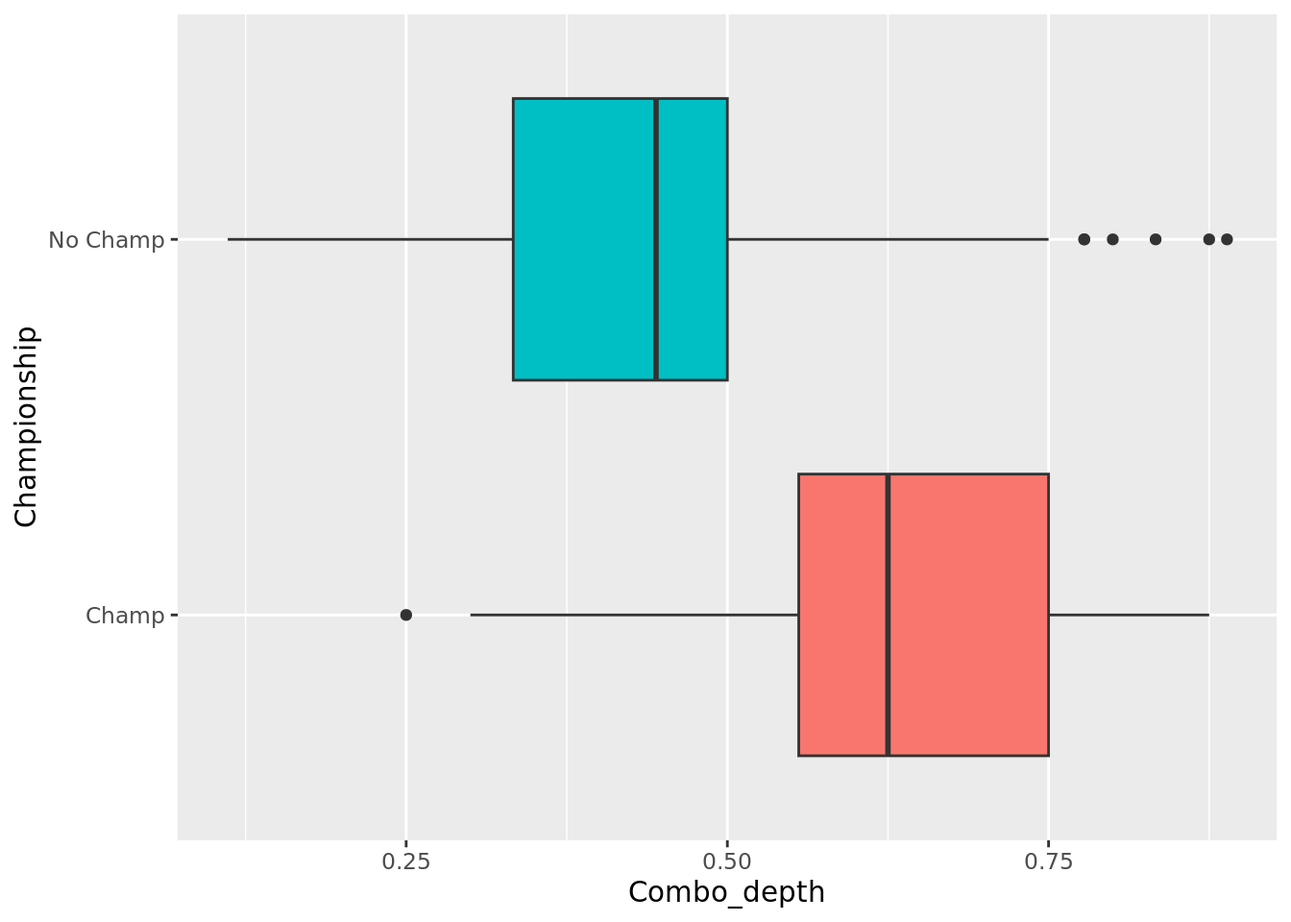
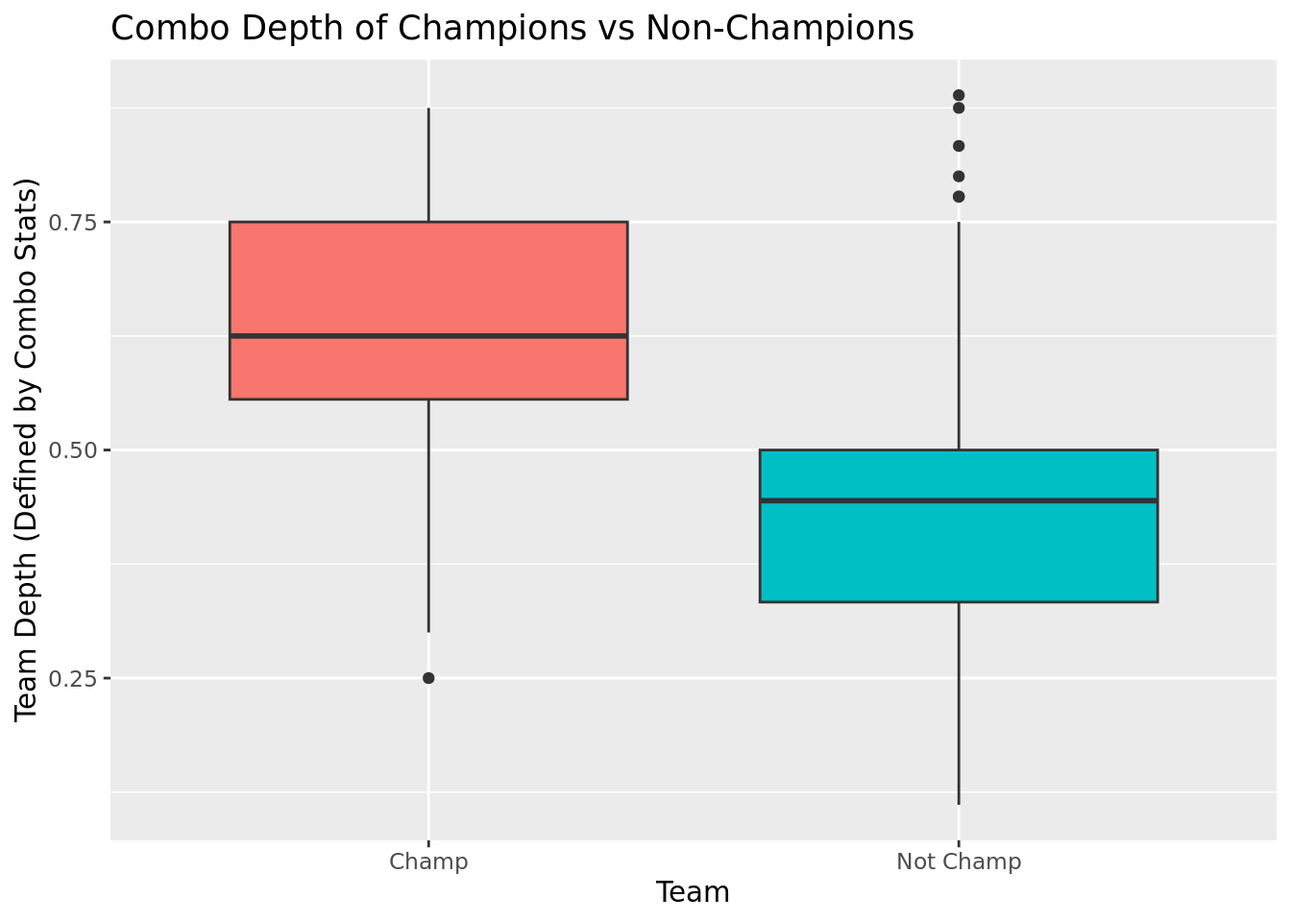
Added Part 2 and 3

diff --git a/docs/report.html b/docs/report.html
@@ -422,7 +422,7 @@ $ ws_per_48        &lt;dbl&gt; 0.228, -0.104, 0.094, 0.049, 0.049, 0.063, 0.182,
 <pre><code># A tibble: 1 × 1
   p_value
     &lt;dbl&gt;
-1   0.064</code></pre>
+1    0.06</code></pre>
 </div>
 </div>
 <p>Part 2: Advanced Stats</p>
@@ -438,73 +438,181 @@ $ ws_per_48        &lt;dbl&gt; 0.228, -0.104, 0.094, 0.049, 0.049, 0.063, 0.182,
 <div class="cell">
 <div class="sourceCode cell-code" id="cb26"><pre class="sourceCode r code-with-copy"><code class="sourceCode r"><span id="cb26-1"><a href="#cb26-1" aria-hidden="true" tabindex="-1"></a>Adv_df <span class="ot">&lt;-</span> Adv_df <span class="sc">|&gt;</span></span>
 <span id="cb26-2"><a href="#cb26-2" aria-hidden="true" tabindex="-1"></a>  <span class="fu">mutate</span>(<span class="at">Adv_depth =</span> count_qual <span class="sc">/</span> count_rot,</span>
-<span id="cb26-3"><a href="#cb26-3" aria-hidden="true" tabindex="-1"></a>         <span class="at">Championship =</span> <span class="fu">if_else</span>(team_id <span class="sc">%in%</span> <span class="fu">c</span>(<span class="st">"1990DET"</span>, <span class="st">"1991CHI"</span>, <span class="st">"1992CHI"</span>, <span class="st">"1993CHI"</span>, <span class="st">"1994HOU"</span>, <span class="st">"1995HOU"</span>, <span class="st">"1996CHI"</span>, <span class="st">"1997CHI"</span>, <span class="st">"1998CHI"</span>, <span class="st">"1999SAS"</span>, <span class="st">"2000LAL"</span>, <span class="st">"2001LAL"</span>, <span class="st">"2002LAL"</span>, <span class="st">"2003SAS"</span>, <span class="st">"2004DET"</span>, <span class="st">"2005SAS"</span>, <span class="st">"2006MIA"</span>, <span class="st">"2007SAS"</span>, <span class="st">"2008BOS"</span>, <span class="st">"2009LAL"</span>, <span class="st">"2010LAL"</span>, <span class="st">"2011DAL"</span>, <span class="st">"2012MIA"</span>, <span class="st">"2013MIA"</span>, <span class="st">"2014SAS"</span>, <span class="st">"2015GSW"</span>, <span class="st">"2016CLE"</span>, <span class="st">"2017GSW"</span>, <span class="st">"2018GSW"</span>, <span class="st">"2019TOR"</span>, <span class="st">"2020LAL"</span>, <span class="st">"2021MIL"</span>, <span class="st">"2022GSW"</span>), <span class="st">"Champ"</span>, <span class="st">"No Champ"</span> ))</span></code><button title="Copy to Clipboard" class="code-copy-button"><i class="bi"></i></button></pre></div>
+<span id="cb26-3"><a href="#cb26-3" aria-hidden="true" tabindex="-1"></a>         <span class="at">Championship =</span> <span class="fu">if_else</span>(team_id <span class="sc">%in%</span> <span class="fu">c</span>(<span class="st">"1990DET"</span>, <span class="st">"1991CHI"</span>, <span class="st">"1992CHI"</span>, <span class="st">"1993CHI"</span>, <span class="st">"1994HOU"</span>, <span class="st">"1995HOU"</span>, <span class="st">"1996CHI"</span>, <span class="st">"1997CHI"</span>, <span class="st">"1998CHI"</span>, <span class="st">"1999SAS"</span>, <span class="st">"2000LAL"</span>, <span class="st">"2001LAL"</span>, <span class="st">"2002LAL"</span>, <span class="st">"2003SAS"</span>, <span class="st">"2004DET"</span>, <span class="st">"2005SAS"</span>, <span class="st">"2006MIA"</span>, <span class="st">"2007SAS"</span>, <span class="st">"2008BOS"</span>, <span class="st">"2009LAL"</span>, <span class="st">"2010LAL"</span>, <span class="st">"2011DAL"</span>, <span class="st">"2012MIA"</span>, <span class="st">"2013MIA"</span>, <span class="st">"2014SAS"</span>, <span class="st">"2015GSW"</span>, <span class="st">"2016CLE"</span>, <span class="st">"2017GSW"</span>, <span class="st">"2018GSW"</span>, <span class="st">"2019TOR"</span>, <span class="st">"2020LAL"</span>, <span class="st">"2021MIL"</span>, <span class="st">"2022GSW"</span>), <span class="st">"Champ"</span>, <span class="st">"Not Champ"</span> ))</span></code><button title="Copy to Clipboard" class="code-copy-button"><i class="bi"></i></button></pre></div>
 </div>
 <div class="cell">
 <div class="sourceCode cell-code" id="cb27"><pre class="sourceCode r code-with-copy"><code class="sourceCode r"><span id="cb27-1"><a href="#cb27-1" aria-hidden="true" tabindex="-1"></a>Adv_df <span class="sc">|&gt;</span></span>
-<span id="cb27-2"><a href="#cb27-2" aria-hidden="true" tabindex="-1"></a>  <span class="fu">group_by</span>(Championship) <span class="sc">|&gt;</span></span>
-<span id="cb27-3"><a href="#cb27-3" aria-hidden="true" tabindex="-1"></a>  <span class="fu">summarize</span>(<span class="fu">mean</span>(Adv_depth))</span></code><button title="Copy to Clipboard" class="code-copy-button"><i class="bi"></i></button></pre></div>
+<span id="cb27-2"><a href="#cb27-2" aria-hidden="true" tabindex="-1"></a>  <span class="fu">ggplot</span>(</span>
+<span id="cb27-3"><a href="#cb27-3" aria-hidden="true" tabindex="-1"></a>    <span class="fu">aes</span>(<span class="at">x =</span> Championship, <span class="at">y =</span> Adv_depth,  <span class="at">fill =</span> Championship)</span>
+<span id="cb27-4"><a href="#cb27-4" aria-hidden="true" tabindex="-1"></a>  ) <span class="sc">+</span></span>
+<span id="cb27-5"><a href="#cb27-5" aria-hidden="true" tabindex="-1"></a>  <span class="fu">geom_boxplot</span>() <span class="sc">+</span></span>
+<span id="cb27-6"><a href="#cb27-6" aria-hidden="true" tabindex="-1"></a>  <span class="fu">theme</span>(<span class="at">legend.position =</span> <span class="st">"none"</span>) <span class="sc">+</span></span>
+<span id="cb27-7"><a href="#cb27-7" aria-hidden="true" tabindex="-1"></a>  <span class="fu">labs</span>(<span class="at">title =</span> <span class="st">"Advanved Depth of Champions vs Non-Champions"</span>,</span>
+<span id="cb27-8"><a href="#cb27-8" aria-hidden="true" tabindex="-1"></a>       <span class="at">x =</span> <span class="st">"Team"</span>,</span>
+<span id="cb27-9"><a href="#cb27-9" aria-hidden="true" tabindex="-1"></a>       <span class="at">y =</span> <span class="st">"Team Depth (Defined by Adv Stats)"</span>)</span></code><button title="Copy to Clipboard" class="code-copy-button"><i class="bi"></i></button></pre></div>
+<div class="cell-output-display">
+<p><img src="report_files/figure-html/adv-barplot-depth-1.png" class="img-fluid" width="672"></p>
+</div>
+</div>
+<div class="cell">
+<div class="sourceCode cell-code" id="cb28"><pre class="sourceCode r code-with-copy"><code class="sourceCode r"><span id="cb28-1"><a href="#cb28-1" aria-hidden="true" tabindex="-1"></a>Adv_df <span class="sc">|&gt;</span></span>
+<span id="cb28-2"><a href="#cb28-2" aria-hidden="true" tabindex="-1"></a>  <span class="fu">ggplot</span>(</span>
+<span id="cb28-3"><a href="#cb28-3" aria-hidden="true" tabindex="-1"></a>    <span class="fu">aes</span>(<span class="at">x =</span> Championship, <span class="at">y =</span> Adv_depth,  <span class="at">fill =</span> Championship)</span>
+<span id="cb28-4"><a href="#cb28-4" aria-hidden="true" tabindex="-1"></a>  ) <span class="sc">+</span></span>
+<span id="cb28-5"><a href="#cb28-5" aria-hidden="true" tabindex="-1"></a>  <span class="fu">geom_violin</span>() <span class="sc">+</span></span>
+<span id="cb28-6"><a href="#cb28-6" aria-hidden="true" tabindex="-1"></a>  <span class="fu">theme</span>(<span class="at">legend.position =</span> <span class="st">"none"</span>) <span class="sc">+</span></span>
+<span id="cb28-7"><a href="#cb28-7" aria-hidden="true" tabindex="-1"></a>  <span class="fu">labs</span>(<span class="at">title =</span> <span class="st">"Advanved Depth of Champions vs Non-Champions"</span>,</span>
+<span id="cb28-8"><a href="#cb28-8" aria-hidden="true" tabindex="-1"></a>       <span class="at">x =</span> <span class="st">"Team"</span>,</span>
+<span id="cb28-9"><a href="#cb28-9" aria-hidden="true" tabindex="-1"></a>       <span class="at">y =</span> <span class="st">"Team Depth (Defined by Adv Stats)"</span>)</span></code><button title="Copy to Clipboard" class="code-copy-button"><i class="bi"></i></button></pre></div>
+<div class="cell-output-display">
+<p><img src="report_files/figure-html/adv-violinplot-depth-1.png" class="img-fluid" width="672"></p>
+</div>
+</div>
+<div class="cell">
+<div class="sourceCode cell-code" id="cb29"><pre class="sourceCode r code-with-copy"><code class="sourceCode r"><span id="cb29-1"><a href="#cb29-1" aria-hidden="true" tabindex="-1"></a>Adv_df <span class="sc">|&gt;</span></span>
+<span id="cb29-2"><a href="#cb29-2" aria-hidden="true" tabindex="-1"></a>  <span class="fu">group_by</span>(Championship) <span class="sc">|&gt;</span></span>
+<span id="cb29-3"><a href="#cb29-3" aria-hidden="true" tabindex="-1"></a>  <span class="fu">summarize</span>(<span class="fu">mean</span>(Adv_depth))</span></code><button title="Copy to Clipboard" class="code-copy-button"><i class="bi"></i></button></pre></div>
 <div class="cell-output cell-output-stdout">
 <pre><code># A tibble: 2 × 2
   Championship `mean(Adv_depth)`
   &lt;chr&gt;                    &lt;dbl&gt;
 1 Champ                    0.751
-2 No Champ                 0.506</code></pre>
+2 Not Champ                0.506</code></pre>
+</div>
+</div>
+<p><span class="math inline">\(\bar{x_c} - \bar{x_n}\)</span> = 0.25</p>
+<div class="cell">
+<div class="sourceCode cell-code" id="cb31"><pre class="sourceCode r code-with-copy"><code class="sourceCode r"><span id="cb31-1"><a href="#cb31-1" aria-hidden="true" tabindex="-1"></a>null_dist_adv <span class="ot">&lt;-</span> Adv_df <span class="sc">|&gt;</span></span>
+<span id="cb31-2"><a href="#cb31-2" aria-hidden="true" tabindex="-1"></a>  <span class="fu">specify</span>(<span class="at">response =</span> Adv_depth, <span class="at">explanatory =</span> Championship) <span class="sc">|&gt;</span></span>
+<span id="cb31-3"><a href="#cb31-3" aria-hidden="true" tabindex="-1"></a>  <span class="fu">hypothesize</span>(<span class="at">null =</span> <span class="st">"independence"</span>) <span class="sc">|&gt;</span></span>
+<span id="cb31-4"><a href="#cb31-4" aria-hidden="true" tabindex="-1"></a>  <span class="fu">generate</span>(<span class="at">reps =</span> <span class="dv">1000</span>, <span class="at">type =</span> <span class="st">"permute"</span>) <span class="sc">|&gt;</span></span>
+<span id="cb31-5"><a href="#cb31-5" aria-hidden="true" tabindex="-1"></a>  <span class="fu">calculate</span>(<span class="at">stat =</span> <span class="st">"diff in means"</span>, <span class="at">order =</span> <span class="fu">c</span>(<span class="st">"Champ"</span>, <span class="st">"Not Champ"</span>))</span></code><button title="Copy to Clipboard" class="code-copy-button"><i class="bi"></i></button></pre></div>
+</div>
+<div class="cell">
+<div class="sourceCode cell-code" id="cb32"><pre class="sourceCode r code-with-copy"><code class="sourceCode r"><span id="cb32-1"><a href="#cb32-1" aria-hidden="true" tabindex="-1"></a><span class="fu">visualize</span>(null_dist_adv) <span class="sc">+</span></span>
+<span id="cb32-2"><a href="#cb32-2" aria-hidden="true" tabindex="-1"></a> <span class="fu">shade_p_value</span>(<span class="at">obs_stat =</span> <span class="fl">0.25</span>, <span class="at">direction =</span> <span class="st">"greater"</span>) <span class="sc">+</span></span>
+<span id="cb32-3"><a href="#cb32-3" aria-hidden="true" tabindex="-1"></a>  <span class="fu">labs</span>(<span class="at">title =</span> <span class="st">"Advanced Distribution of (Champion Depth - Non-Champion Depth) </span></span>
+<span id="cb32-4"><a href="#cb32-4" aria-hidden="true" tabindex="-1"></a><span class="st">using Basic Statistics"</span>,</span>
+<span id="cb32-5"><a href="#cb32-5" aria-hidden="true" tabindex="-1"></a>      <span class="at">x =</span> <span class="st">"Difference (Champion Depth - Non-Champion Depth)"</span>,</span>
+<span id="cb32-6"><a href="#cb32-6" aria-hidden="true" tabindex="-1"></a>      <span class="at">y =</span> <span class="st">"Frequency"</span>)</span></code><button title="Copy to Clipboard" class="code-copy-button"><i class="bi"></i></button></pre></div>
+<div class="cell-output cell-output-stderr">
+<pre><code>Warning in min(diff(unique_loc)): no non-missing arguments to min; returning Inf</code></pre>
+</div>
+<div class="cell-output-display">
+<p><img src="report_files/figure-html/null-vis-adv-1.png" class="img-fluid" width="672"></p>
 </div>
 </div>
 <div class="cell">
-<div class="sourceCode cell-code" id="cb29"><pre class="sourceCode r code-with-copy"><code class="sourceCode r"><span id="cb29-1"><a href="#cb29-1" aria-hidden="true" tabindex="-1"></a>Adv_df <span class="sc">|&gt;</span></span>
-<span id="cb29-2"><a href="#cb29-2" aria-hidden="true" tabindex="-1"></a>  <span class="fu">ggplot</span>(</span>
-<span id="cb29-3"><a href="#cb29-3" aria-hidden="true" tabindex="-1"></a>    <span class="fu">aes</span>(<span class="at">x =</span> Championship, <span class="at">y =</span> Adv_depth,  <span class="at">fill =</span> Championship)</span>
-<span id="cb29-4"><a href="#cb29-4" aria-hidden="true" tabindex="-1"></a>  ) <span class="sc">+</span></span>
-<span id="cb29-5"><a href="#cb29-5" aria-hidden="true" tabindex="-1"></a>  <span class="fu">geom_boxplot</span>() <span class="sc">+</span></span>
-<span id="cb29-6"><a href="#cb29-6" aria-hidden="true" tabindex="-1"></a>  <span class="fu">theme</span>(<span class="at">legend.position =</span> <span class="st">"none"</span>)</span></code><button title="Copy to Clipboard" class="code-copy-button"><i class="bi"></i></button></pre></div>
-<div class="cell-output-display">
-<p><img src="report_files/figure-html/adv-barplot-depth-1.png" class="img-fluid" width="672"></p>
+<div class="sourceCode cell-code" id="cb34"><pre class="sourceCode r code-with-copy"><code class="sourceCode r"><span id="cb34-1"><a href="#cb34-1" aria-hidden="true" tabindex="-1"></a>null_dist_adv <span class="sc">|&gt;</span></span>
+<span id="cb34-2"><a href="#cb34-2" aria-hidden="true" tabindex="-1"></a>  <span class="fu">get_p_value</span>(<span class="at">obs_stat =</span> <span class="fl">0.25</span>, <span class="at">direction =</span> <span class="st">"right"</span>)</span></code><button title="Copy to Clipboard" class="code-copy-button"><i class="bi"></i></button></pre></div>
+<div class="cell-output cell-output-stderr">
+<pre><code>Warning: Please be cautious in reporting a p-value of 0. This result is an
+approximation based on the number of `reps` chosen in the `generate()` step. See
+`?get_p_value()` for more information.</code></pre>
+</div>
+<div class="cell-output cell-output-stdout">
+<pre><code># A tibble: 1 × 1
+  p_value
+    &lt;dbl&gt;
+1       0</code></pre>
 </div>
 </div>
 <p>Part 3: Combo</p>
 <div class="cell">
-<div class="sourceCode cell-code" id="cb30"><pre class="sourceCode r code-with-copy"><code class="sourceCode r"><span id="cb30-1"><a href="#cb30-1" aria-hidden="true" tabindex="-1"></a>NBA_df_combo <span class="ot">&lt;-</span> NBA_df <span class="sc">|&gt;</span></span>
-<span id="cb30-2"><a href="#cb30-2" aria-hidden="true" tabindex="-1"></a>  <span class="fu">mutate</span>(<span class="at">pp_36 =</span> pts_per_g <span class="sc">/</span> mp_per_g <span class="sc">*</span> <span class="dv">36</span>,</span>
-<span id="cb30-3"><a href="#cb30-3" aria-hidden="true" tabindex="-1"></a>         <span class="at">rp_36 =</span> trb_per_g <span class="sc">/</span> mp_per_g <span class="sc">*</span> <span class="dv">36</span>,</span>
-<span id="cb30-4"><a href="#cb30-4" aria-hidden="true" tabindex="-1"></a>         <span class="at">ap_36 =</span> ast_per_g <span class="sc">/</span> mp_per_g <span class="sc">*</span> <span class="dv">36</span>)</span>
-<span id="cb30-5"><a href="#cb30-5" aria-hidden="true" tabindex="-1"></a></span>
-<span id="cb30-6"><a href="#cb30-6" aria-hidden="true" tabindex="-1"></a>Qual_player_df_combo <span class="ot">&lt;-</span> NBA_df_combo <span class="sc">|&gt;</span></span>
-<span id="cb30-7"><a href="#cb30-7" aria-hidden="true" tabindex="-1"></a>  <span class="fu">filter</span>(pp_36 <span class="sc">&gt;</span> <span class="dv">16</span> <span class="sc">|</span> rp_36 <span class="sc">&gt;</span> <span class="fl">6.5</span> <span class="sc">|</span> ap_36 <span class="sc">&gt;</span> <span class="fl">3.5</span>, </span>
-<span id="cb30-8"><a href="#cb30-8" aria-hidden="true" tabindex="-1"></a>         per <span class="sc">&gt;=</span> <span class="dv">15</span> <span class="sc">|</span> ws_per_48 <span class="sc">&gt;=</span> <span class="fl">0.1</span>) <span class="sc">|&gt;</span></span>
-<span id="cb30-9"><a href="#cb30-9" aria-hidden="true" tabindex="-1"></a>  <span class="fu">group_by</span>(team_id) <span class="sc">|&gt;</span></span>
-<span id="cb30-10"><a href="#cb30-10" aria-hidden="true" tabindex="-1"></a>  <span class="fu">summarise</span>(<span class="at">count_qual =</span> <span class="fu">n</span>())</span>
-<span id="cb30-11"><a href="#cb30-11" aria-hidden="true" tabindex="-1"></a></span>
-<span id="cb30-12"><a href="#cb30-12" aria-hidden="true" tabindex="-1"></a>Combo_df <span class="ot">&lt;-</span> Qual_player_df_combo <span class="sc">|&gt;</span></span>
-<span id="cb30-13"><a href="#cb30-13" aria-hidden="true" tabindex="-1"></a>  <span class="fu">left_join</span>(All_rot_players_df, <span class="at">by =</span> <span class="st">"team_id"</span>)</span></code><button title="Copy to Clipboard" class="code-copy-button"><i class="bi"></i></button></pre></div>
+<div class="sourceCode cell-code" id="cb37"><pre class="sourceCode r code-with-copy"><code class="sourceCode r"><span id="cb37-1"><a href="#cb37-1" aria-hidden="true" tabindex="-1"></a>NBA_df_combo <span class="ot">&lt;-</span> NBA_df <span class="sc">|&gt;</span></span>
+<span id="cb37-2"><a href="#cb37-2" aria-hidden="true" tabindex="-1"></a>  <span class="fu">mutate</span>(<span class="at">pp_36 =</span> pts_per_g <span class="sc">/</span> mp_per_g <span class="sc">*</span> <span class="dv">36</span>,</span>
+<span id="cb37-3"><a href="#cb37-3" aria-hidden="true" tabindex="-1"></a>         <span class="at">rp_36 =</span> trb_per_g <span class="sc">/</span> mp_per_g <span class="sc">*</span> <span class="dv">36</span>,</span>
+<span id="cb37-4"><a href="#cb37-4" aria-hidden="true" tabindex="-1"></a>         <span class="at">ap_36 =</span> ast_per_g <span class="sc">/</span> mp_per_g <span class="sc">*</span> <span class="dv">36</span>)</span>
+<span id="cb37-5"><a href="#cb37-5" aria-hidden="true" tabindex="-1"></a></span>
+<span id="cb37-6"><a href="#cb37-6" aria-hidden="true" tabindex="-1"></a>Qual_player_df_combo <span class="ot">&lt;-</span> NBA_df_combo <span class="sc">|&gt;</span></span>
+<span id="cb37-7"><a href="#cb37-7" aria-hidden="true" tabindex="-1"></a>  <span class="fu">filter</span>(pp_36 <span class="sc">&gt;</span> <span class="dv">16</span> <span class="sc">|</span> rp_36 <span class="sc">&gt;</span> <span class="fl">6.5</span> <span class="sc">|</span> ap_36 <span class="sc">&gt;</span> <span class="fl">3.5</span>, </span>
+<span id="cb37-8"><a href="#cb37-8" aria-hidden="true" tabindex="-1"></a>         per <span class="sc">&gt;=</span> <span class="dv">15</span> <span class="sc">|</span> ws_per_48 <span class="sc">&gt;=</span> <span class="fl">0.1</span>) <span class="sc">|&gt;</span></span>
+<span id="cb37-9"><a href="#cb37-9" aria-hidden="true" tabindex="-1"></a>  <span class="fu">group_by</span>(team_id) <span class="sc">|&gt;</span></span>
+<span id="cb37-10"><a href="#cb37-10" aria-hidden="true" tabindex="-1"></a>  <span class="fu">summarise</span>(<span class="at">count_qual =</span> <span class="fu">n</span>())</span>
+<span id="cb37-11"><a href="#cb37-11" aria-hidden="true" tabindex="-1"></a></span>
+<span id="cb37-12"><a href="#cb37-12" aria-hidden="true" tabindex="-1"></a>Combo_df <span class="ot">&lt;-</span> Qual_player_df_combo <span class="sc">|&gt;</span></span>
+<span id="cb37-13"><a href="#cb37-13" aria-hidden="true" tabindex="-1"></a>  <span class="fu">left_join</span>(All_rot_players_df, <span class="at">by =</span> <span class="st">"team_id"</span>)</span></code><button title="Copy to Clipboard" class="code-copy-button"><i class="bi"></i></button></pre></div>
 </div>
 <div class="cell">
-<div class="sourceCode cell-code" id="cb31"><pre class="sourceCode r code-with-copy"><code class="sourceCode r"><span id="cb31-1"><a href="#cb31-1" aria-hidden="true" tabindex="-1"></a>Combo_df <span class="ot">&lt;-</span> Combo_df <span class="sc">|&gt;</span></span>
-<span id="cb31-2"><a href="#cb31-2" aria-hidden="true" tabindex="-1"></a>  <span class="fu">mutate</span>(<span class="at">Combo_depth =</span> count_qual <span class="sc">/</span> count_rot,</span>
-<span id="cb31-3"><a href="#cb31-3" aria-hidden="true" tabindex="-1"></a>         <span class="at">Championship =</span> <span class="fu">if_else</span>(team_id <span class="sc">%in%</span> <span class="fu">c</span>(<span class="st">"1990DET"</span>, <span class="st">"1991CHI"</span>, <span class="st">"1992CHI"</span>, <span class="st">"1993CHI"</span>, <span class="st">"1994HOU"</span>, <span class="st">"1995HOU"</span>, <span class="st">"1996CHI"</span>, <span class="st">"1997CHI"</span>, <span class="st">"1998CHI"</span>, <span class="st">"1999SAS"</span>, <span class="st">"2000LAL"</span>, <span class="st">"2001LAL"</span>, <span class="st">"2002LAL"</span>, <span class="st">"2003SAS"</span>, <span class="st">"2004DET"</span>, <span class="st">"2005SAS"</span>, <span class="st">"2006MIA"</span>, <span class="st">"2007SAS"</span>, <span class="st">"2008BOS"</span>, <span class="st">"2009LAL"</span>, <span class="st">"2010LAL"</span>, <span class="st">"2011DAL"</span>, <span class="st">"2012MIA"</span>, <span class="st">"2013MIA"</span>, <span class="st">"2014SAS"</span>, <span class="st">"2015GSW"</span>, <span class="st">"2016CLE"</span>, <span class="st">"2017GSW"</span>, <span class="st">"2018GSW"</span>, <span class="st">"2019TOR"</span>, <span class="st">"2020LAL"</span>, <span class="st">"2021MIL"</span>, <span class="st">"2022GSW"</span>), <span class="st">"Champ"</span>, <span class="st">"No Champ"</span> ))</span></code><button title="Copy to Clipboard" class="code-copy-button"><i class="bi"></i></button></pre></div>
+<div class="sourceCode cell-code" id="cb38"><pre class="sourceCode r code-with-copy"><code class="sourceCode r"><span id="cb38-1"><a href="#cb38-1" aria-hidden="true" tabindex="-1"></a>Combo_df <span class="ot">&lt;-</span> Combo_df <span class="sc">|&gt;</span></span>
+<span id="cb38-2"><a href="#cb38-2" aria-hidden="true" tabindex="-1"></a>  <span class="fu">mutate</span>(<span class="at">Combo_depth =</span> count_qual <span class="sc">/</span> count_rot,</span>
+<span id="cb38-3"><a href="#cb38-3" aria-hidden="true" tabindex="-1"></a>         <span class="at">Championship =</span> <span class="fu">if_else</span>(team_id <span class="sc">%in%</span> <span class="fu">c</span>(<span class="st">"1990DET"</span>, <span class="st">"1991CHI"</span>, <span class="st">"1992CHI"</span>, <span class="st">"1993CHI"</span>, <span class="st">"1994HOU"</span>, <span class="st">"1995HOU"</span>, <span class="st">"1996CHI"</span>, <span class="st">"1997CHI"</span>, <span class="st">"1998CHI"</span>, <span class="st">"1999SAS"</span>, <span class="st">"2000LAL"</span>, <span class="st">"2001LAL"</span>, <span class="st">"2002LAL"</span>, <span class="st">"2003SAS"</span>, <span class="st">"2004DET"</span>, <span class="st">"2005SAS"</span>, <span class="st">"2006MIA"</span>, <span class="st">"2007SAS"</span>, <span class="st">"2008BOS"</span>, <span class="st">"2009LAL"</span>, <span class="st">"2010LAL"</span>, <span class="st">"2011DAL"</span>, <span class="st">"2012MIA"</span>, <span class="st">"2013MIA"</span>, <span class="st">"2014SAS"</span>, <span class="st">"2015GSW"</span>, <span class="st">"2016CLE"</span>, <span class="st">"2017GSW"</span>, <span class="st">"2018GSW"</span>, <span class="st">"2019TOR"</span>, <span class="st">"2020LAL"</span>, <span class="st">"2021MIL"</span>, <span class="st">"2022GSW"</span>), <span class="st">"Champ"</span>, <span class="st">"Not Champ"</span> ))</span></code><button title="Copy to Clipboard" class="code-copy-button"><i class="bi"></i></button></pre></div>
 </div>
 <div class="cell">
-<div class="sourceCode cell-code" id="cb32"><pre class="sourceCode r code-with-copy"><code class="sourceCode r"><span id="cb32-1"><a href="#cb32-1" aria-hidden="true" tabindex="-1"></a>Combo_df <span class="sc">|&gt;</span></span>
-<span id="cb32-2"><a href="#cb32-2" aria-hidden="true" tabindex="-1"></a>  <span class="fu">group_by</span>(Championship) <span class="sc">|&gt;</span></span>
-<span id="cb32-3"><a href="#cb32-3" aria-hidden="true" tabindex="-1"></a>  <span class="fu">summarize</span>(<span class="fu">mean</span>(Combo_depth))</span></code><button title="Copy to Clipboard" class="code-copy-button"><i class="bi"></i></button></pre></div>
+<div class="sourceCode cell-code" id="cb39"><pre class="sourceCode r code-with-copy"><code class="sourceCode r"><span id="cb39-1"><a href="#cb39-1" aria-hidden="true" tabindex="-1"></a>Combo_df <span class="sc">|&gt;</span></span>
+<span id="cb39-2"><a href="#cb39-2" aria-hidden="true" tabindex="-1"></a>  <span class="fu">ggplot</span>(</span>
+<span id="cb39-3"><a href="#cb39-3" aria-hidden="true" tabindex="-1"></a>    <span class="fu">aes</span>(<span class="at">x =</span> Championship, <span class="at">y =</span> Combo_depth,  <span class="at">fill =</span> Championship)</span>
+<span id="cb39-4"><a href="#cb39-4" aria-hidden="true" tabindex="-1"></a>  ) <span class="sc">+</span></span>
+<span id="cb39-5"><a href="#cb39-5" aria-hidden="true" tabindex="-1"></a>  <span class="fu">geom_boxplot</span>() <span class="sc">+</span></span>
+<span id="cb39-6"><a href="#cb39-6" aria-hidden="true" tabindex="-1"></a>  <span class="fu">theme</span>(<span class="at">legend.position =</span> <span class="st">"none"</span>) <span class="sc">+</span></span>
+<span id="cb39-7"><a href="#cb39-7" aria-hidden="true" tabindex="-1"></a>  <span class="fu">labs</span>(<span class="at">title =</span> <span class="st">"Combo Depth of Champions vs Non-Champions"</span>,</span>
+<span id="cb39-8"><a href="#cb39-8" aria-hidden="true" tabindex="-1"></a>       <span class="at">x =</span> <span class="st">"Team"</span>,</span>
+<span id="cb39-9"><a href="#cb39-9" aria-hidden="true" tabindex="-1"></a>       <span class="at">y =</span> <span class="st">"Team Depth (Defined by Combo Stats)"</span>)</span></code><button title="Copy to Clipboard" class="code-copy-button"><i class="bi"></i></button></pre></div>
+<div class="cell-output-display">
+<p><img src="report_files/figure-html/combo-barplot-depth-1.png" class="img-fluid" width="672"></p>
+</div>
+</div>
+<div class="cell">
+<div class="sourceCode cell-code" id="cb40"><pre class="sourceCode r code-with-copy"><code class="sourceCode r"><span id="cb40-1"><a href="#cb40-1" aria-hidden="true" tabindex="-1"></a>Combo_df <span class="sc">|&gt;</span></span>
+<span id="cb40-2"><a href="#cb40-2" aria-hidden="true" tabindex="-1"></a>  <span class="fu">ggplot</span>(</span>
+<span id="cb40-3"><a href="#cb40-3" aria-hidden="true" tabindex="-1"></a>    <span class="fu">aes</span>(<span class="at">x =</span> Championship, <span class="at">y =</span> Combo_depth,  <span class="at">fill =</span> Championship)</span>
+<span id="cb40-4"><a href="#cb40-4" aria-hidden="true" tabindex="-1"></a>  ) <span class="sc">+</span></span>
+<span id="cb40-5"><a href="#cb40-5" aria-hidden="true" tabindex="-1"></a>  <span class="fu">geom_violin</span>() <span class="sc">+</span></span>
+<span id="cb40-6"><a href="#cb40-6" aria-hidden="true" tabindex="-1"></a>  <span class="fu">theme</span>(<span class="at">legend.position =</span> <span class="st">"none"</span>) <span class="sc">+</span></span>
+<span id="cb40-7"><a href="#cb40-7" aria-hidden="true" tabindex="-1"></a>  <span class="fu">labs</span>(<span class="at">title =</span> <span class="st">"Combo Depth of Champions vs Non-Champions"</span>,</span>
+<span id="cb40-8"><a href="#cb40-8" aria-hidden="true" tabindex="-1"></a>       <span class="at">x =</span> <span class="st">"Team"</span>,</span>
+<span id="cb40-9"><a href="#cb40-9" aria-hidden="true" tabindex="-1"></a>       <span class="at">y =</span> <span class="st">"Team Depth (Defined by Combo Stats)"</span>)</span></code><button title="Copy to Clipboard" class="code-copy-button"><i class="bi"></i></button></pre></div>
+<div class="cell-output-display">
+<p><img src="report_files/figure-html/combo-violin-depth-1.png" class="img-fluid" width="672"></p>
+</div>
+</div>
+<div class="cell">
+<div class="sourceCode cell-code" id="cb41"><pre class="sourceCode r code-with-copy"><code class="sourceCode r"><span id="cb41-1"><a href="#cb41-1" aria-hidden="true" tabindex="-1"></a>Combo_df <span class="sc">|&gt;</span></span>
+<span id="cb41-2"><a href="#cb41-2" aria-hidden="true" tabindex="-1"></a>  <span class="fu">group_by</span>(Championship) <span class="sc">|&gt;</span></span>
+<span id="cb41-3"><a href="#cb41-3" aria-hidden="true" tabindex="-1"></a>  <span class="fu">summarize</span>(<span class="fu">mean</span>(Combo_depth))</span></code><button title="Copy to Clipboard" class="code-copy-button"><i class="bi"></i></button></pre></div>
 <div class="cell-output cell-output-stdout">
 <pre><code># A tibble: 2 × 2
   Championship `mean(Combo_depth)`
   &lt;chr&gt;                      &lt;dbl&gt;
 1 Champ                      0.627
-2 No Champ                   0.439</code></pre>
+2 Not Champ                  0.439</code></pre>
+</div>
+</div>
+<p><span class="math inline">\(\bar{x_c} - \bar{x_n}\)</span> = 0.19</p>
+<div class="cell">
+<div class="sourceCode cell-code" id="cb43"><pre class="sourceCode r code-with-copy"><code class="sourceCode r"><span id="cb43-1"><a href="#cb43-1" aria-hidden="true" tabindex="-1"></a>null_dist_combo <span class="ot">&lt;-</span> Combo_df <span class="sc">|&gt;</span></span>
+<span id="cb43-2"><a href="#cb43-2" aria-hidden="true" tabindex="-1"></a>  <span class="fu">specify</span>(<span class="at">response =</span> Combo_depth, <span class="at">explanatory =</span> Championship) <span class="sc">|&gt;</span></span>
+<span id="cb43-3"><a href="#cb43-3" aria-hidden="true" tabindex="-1"></a>  <span class="fu">hypothesize</span>(<span class="at">null =</span> <span class="st">"independence"</span>) <span class="sc">|&gt;</span></span>
+<span id="cb43-4"><a href="#cb43-4" aria-hidden="true" tabindex="-1"></a>  <span class="fu">generate</span>(<span class="at">reps =</span> <span class="dv">1000</span>, <span class="at">type =</span> <span class="st">"permute"</span>) <span class="sc">|&gt;</span></span>
+<span id="cb43-5"><a href="#cb43-5" aria-hidden="true" tabindex="-1"></a>  <span class="fu">calculate</span>(<span class="at">stat =</span> <span class="st">"diff in means"</span>, <span class="at">order =</span> <span class="fu">c</span>(<span class="st">"Champ"</span>, <span class="st">"Not Champ"</span>))</span></code><button title="Copy to Clipboard" class="code-copy-button"><i class="bi"></i></button></pre></div>
+</div>
+<div class="cell">
+<div class="sourceCode cell-code" id="cb44"><pre class="sourceCode r code-with-copy"><code class="sourceCode r"><span id="cb44-1"><a href="#cb44-1" aria-hidden="true" tabindex="-1"></a><span class="fu">visualize</span>(null_dist_combo) <span class="sc">+</span></span>
+<span id="cb44-2"><a href="#cb44-2" aria-hidden="true" tabindex="-1"></a> <span class="fu">shade_p_value</span>(<span class="at">obs_stat =</span> <span class="fl">0.19</span>, <span class="at">direction =</span> <span class="st">"greater"</span>) <span class="sc">+</span></span>
+<span id="cb44-3"><a href="#cb44-3" aria-hidden="true" tabindex="-1"></a>  <span class="fu">labs</span>(<span class="at">title =</span> <span class="st">"Combo Distribution of (Champion Depth - Non-Champion Depth) </span></span>
+<span id="cb44-4"><a href="#cb44-4" aria-hidden="true" tabindex="-1"></a><span class="st">using Basic Statistics"</span>,</span>
+<span id="cb44-5"><a href="#cb44-5" aria-hidden="true" tabindex="-1"></a>      <span class="at">x =</span> <span class="st">"Difference (Champion Depth - Non-Champion Depth)"</span>,</span>
+<span id="cb44-6"><a href="#cb44-6" aria-hidden="true" tabindex="-1"></a>      <span class="at">y =</span> <span class="st">"Frequency"</span>)</span></code><button title="Copy to Clipboard" class="code-copy-button"><i class="bi"></i></button></pre></div>
+<div class="cell-output cell-output-stderr">
+<pre><code>Warning in min(diff(unique_loc)): no non-missing arguments to min; returning Inf</code></pre>
+</div>
+<div class="cell-output-display">
+<p><img src="report_files/figure-html/null-vis-combo-1.png" class="img-fluid" width="672"></p>
 </div>
 </div>
 <div class="cell">
-<div class="sourceCode cell-code" id="cb34"><pre class="sourceCode r code-with-copy"><code class="sourceCode r"><span id="cb34-1"><a href="#cb34-1" aria-hidden="true" tabindex="-1"></a>Combo_df <span class="sc">|&gt;</span></span>
-<span id="cb34-2"><a href="#cb34-2" aria-hidden="true" tabindex="-1"></a>  <span class="fu">ggplot</span>(</span>
-<span id="cb34-3"><a href="#cb34-3" aria-hidden="true" tabindex="-1"></a>    <span class="fu">aes</span>(<span class="at">x =</span> Combo_depth, <span class="at">y =</span> Championship, <span class="at">fill =</span> Championship)</span>
-<span id="cb34-4"><a href="#cb34-4" aria-hidden="true" tabindex="-1"></a>  ) <span class="sc">+</span></span>
-<span id="cb34-5"><a href="#cb34-5" aria-hidden="true" tabindex="-1"></a>  <span class="fu">geom_boxplot</span>() <span class="sc">+</span></span>
-<span id="cb34-6"><a href="#cb34-6" aria-hidden="true" tabindex="-1"></a>  <span class="fu">theme</span>(<span class="at">legend.position =</span> <span class="st">"none"</span>)</span></code><button title="Copy to Clipboard" class="code-copy-button"><i class="bi"></i></button></pre></div>
-<div class="cell-output-display">
-<p><img src="report_files/figure-html/combo-barplot-depth-1.png" class="img-fluid" width="672"></p>
+<div class="sourceCode cell-code" id="cb46"><pre class="sourceCode r code-with-copy"><code class="sourceCode r"><span id="cb46-1"><a href="#cb46-1" aria-hidden="true" tabindex="-1"></a>null_dist_combo <span class="sc">|&gt;</span></span>
+<span id="cb46-2"><a href="#cb46-2" aria-hidden="true" tabindex="-1"></a>  <span class="fu">get_p_value</span>(<span class="at">obs_stat =</span> <span class="fl">0.19</span>, <span class="at">direction =</span> <span class="st">"right"</span>)</span></code><button title="Copy to Clipboard" class="code-copy-button"><i class="bi"></i></button></pre></div>
+<div class="cell-output cell-output-stderr">
+<pre><code>Warning: Please be cautious in reporting a p-value of 0. This result is an
+approximation based on the number of `reps` chosen in the `generate()` step. See
+`?get_p_value()` for more information.</code></pre>
+</div>
+<div class="cell-output cell-output-stdout">
+<pre><code># A tibble: 1 × 1
+  p_value
+    &lt;dbl&gt;
+1       0</code></pre>
 </div>
 </div>
 
